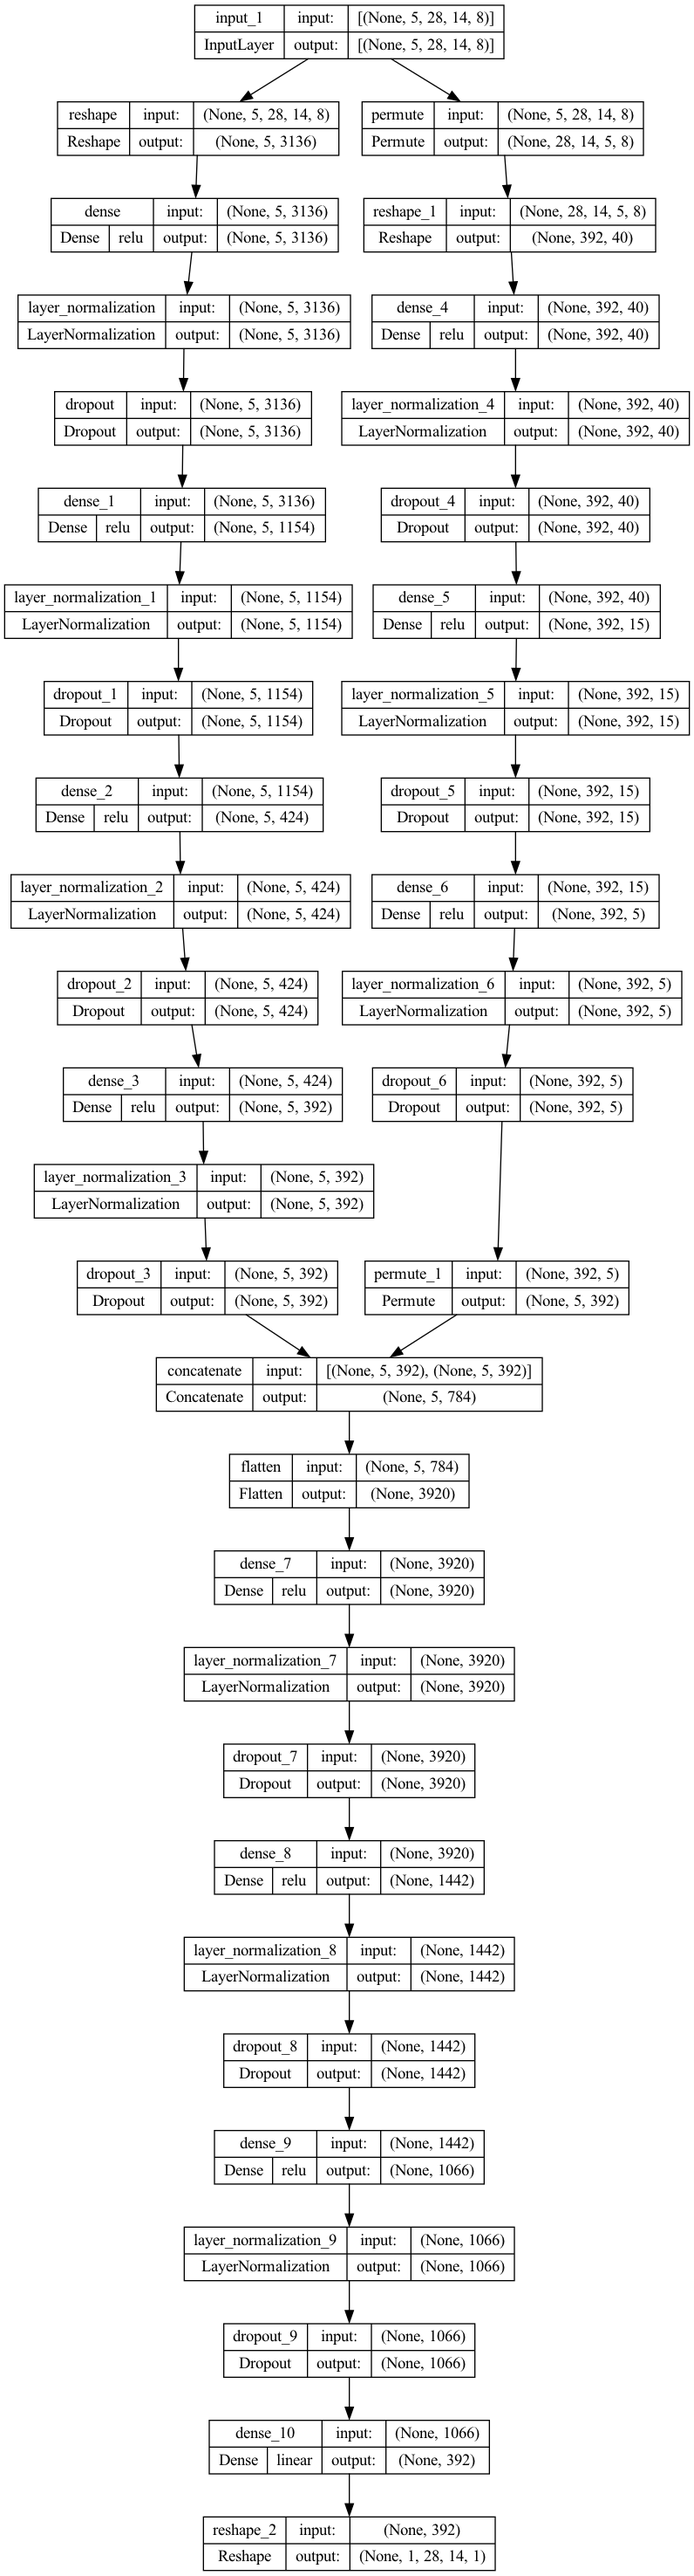
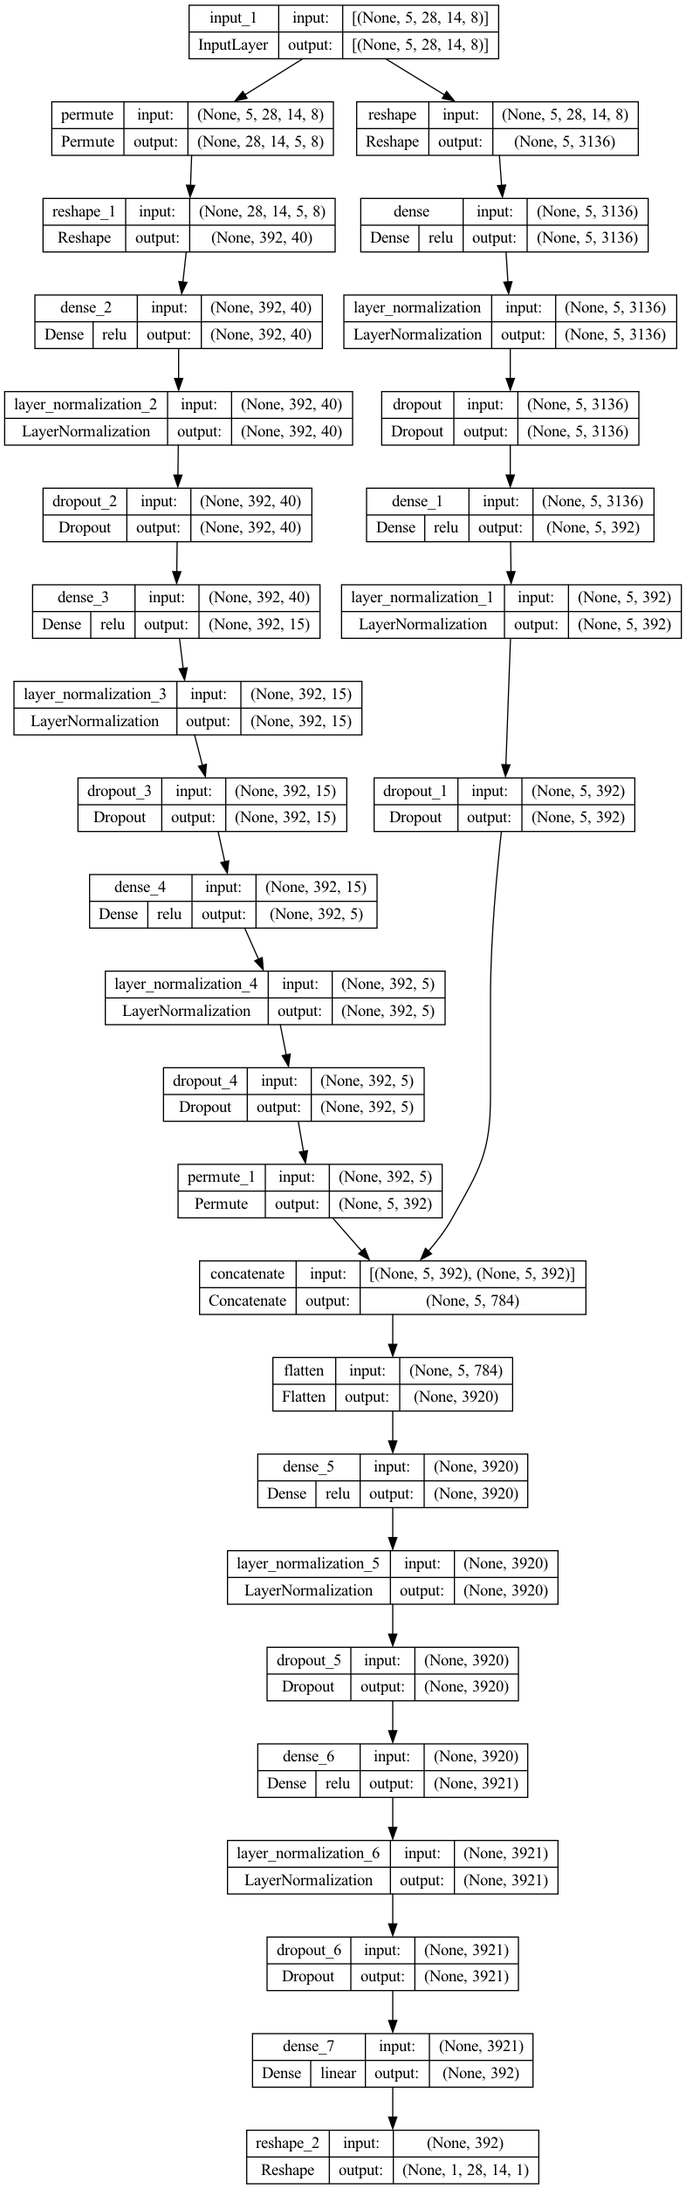
dense

Changed region(s): [[0.0, 0.0, 1.0, 1.0], [0.7939, 0.5598, 0.855, 0.5909]]

diff --git a/ml/dense.py b/ml/dense.py
@@ -33,7 +33,7 @@ def MakeDense(config_path,
     # Spatial part
     spat_flat = Reshape((input_layer.shape[1], -1))(input_layer)
     
-    num_spat_nuerons = Funnel(spat_flat.shape[-1], y_data_shape[2] * y_data_shape[3] * y_data_shape[4])
+    num_spat_nuerons = Funnel(spat_flat.shape[-1], y_data_shape[2] * y_data_shape[3] * y_data_shape[4], r=10)
     for i in range(np.shape(num_spat_nuerons)[0]):
         spat_flat = Dense(units=num_spat_nuerons[i], activation='relu')(spat_flat)
         spat_flat = LayerNormalization()(spat_flat)
@@ -56,7 +56,7 @@ def MakeDense(config_path,
 
     flat = Flatten()(final_dense)
 
-    num_flat_neurons = Funnel(flat.shape[-1], int(y_data_shape[2] * y_data_shape[3] * y_data_shape[4] * np.e)+1)
+    num_flat_neurons = Funnel(flat.shape[-1], int(y_data_shape[2] * y_data_shape[3] * y_data_shape[4] * 10)+1, r=10)
     for i in range(np.shape(num_flat_neurons)[0]):
         flat = Dense(units=num_flat_neurons[i], activation='relu')(flat)
         flat = LayerNormalization()(flat)
